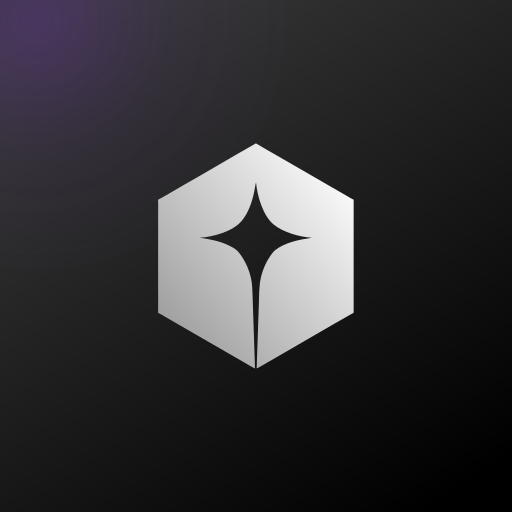
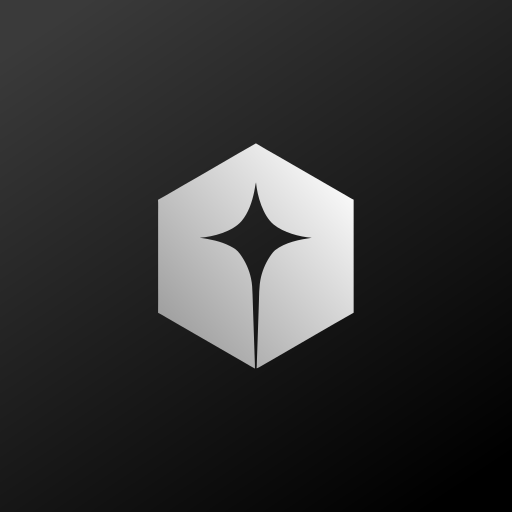
revert(marca): icone de volta sem o brilho roxo
O mesmo desenho de fb95e8f (degrade preto, sem brilho). O cache do service
worker sobe para mb-v6 para quem ja tinha baixado a versao com brilho.

Changed region(s): [[0.0, 0.0, 0.2188, 0.1875]]

diff --git a/public/sw.js b/public/sw.js
@@ -23,11 +23,11 @@
  * engano — o CACHE abaixo é limpo no activate de qualquer forma.
  */
 
-/* Sobe a cada troca de ícone (v2: logo nova; v3: fundo em degradê preto; v4: brilho roxo; v5: brilho no alto, mais suave).
+/* Sobe a cada troca de ícone (v2: logo nova; v3: fundo em degradê preto; v4 e v5: brilho roxo, testado; v6: de volta sem brilho).
    Os ícones vêm do aparelho primeiro, então trocar o desenho sem trocar o
    nome do cache deixaria o antigo para sempre; o activate apaga todo cache
    com nome diferente deste. Ver scripts/gerar-icones.mjs. */
-const CACHE = "mb-v5";
+const CACHE = "mb-v6";
 const OFFLINE = "/offline.html";
 
 /*

diff --git a/public/offline.html b/public/offline.html
@@ -61,9 +61,7 @@
         height: 52px;
         margin: 0 auto 18px;
         border-radius: 15px;
-        background:
-          radial-gradient(circle at 7% 4%, rgba(126, 40, 231, 0.22), rgba(126, 40, 231, 0.05) 26%, transparent 52%),
-          linear-gradient(150deg, #3a3a3a, #000000);
+        background: linear-gradient(150deg, #3a3a3a, #000000);
       }
       .marca svg {
         width: 26px;
